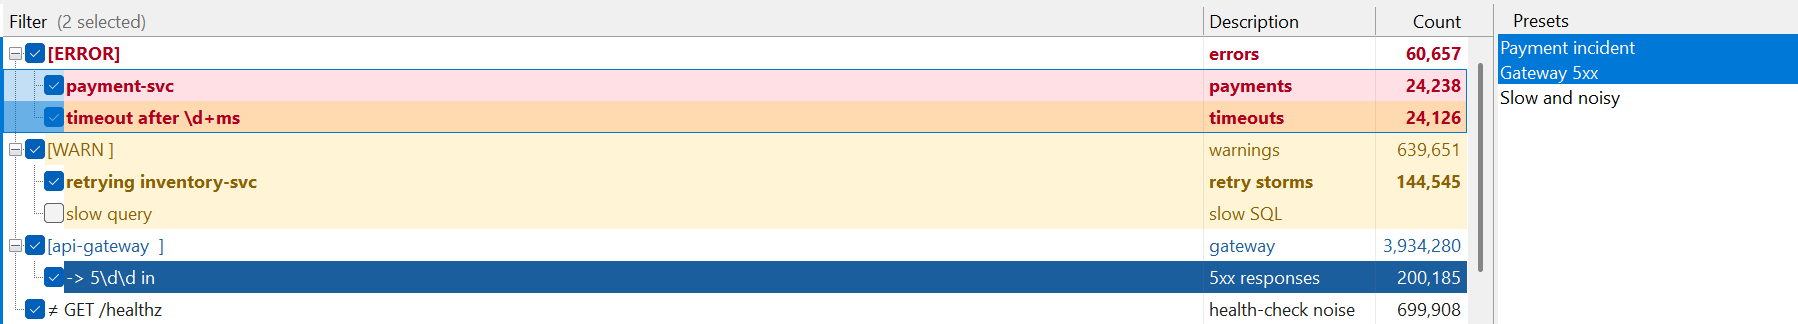
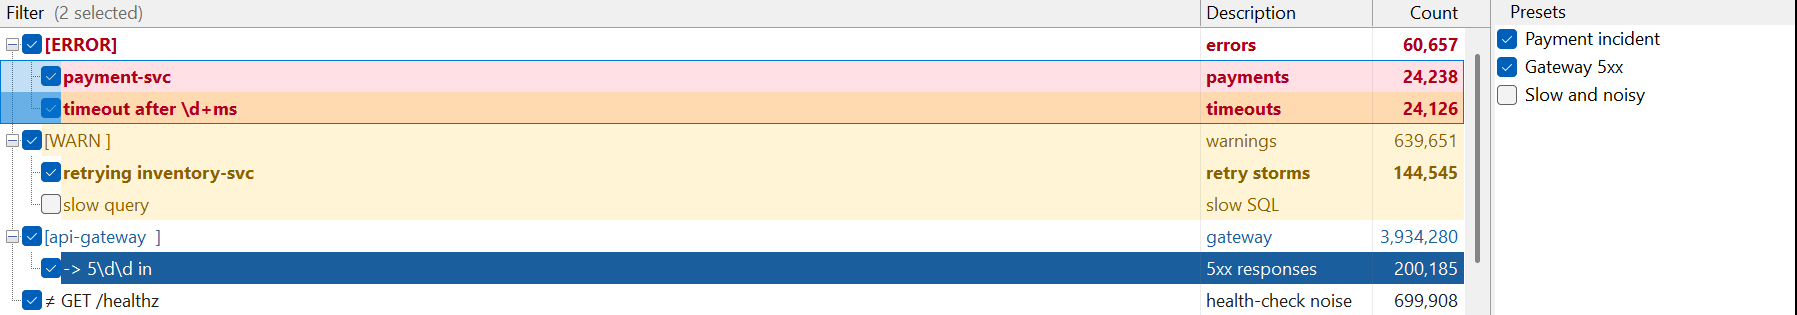
Refresh the README and its screenshots
The hero and filter-list shots still showed the old presets pane - a plain list with a blue selection - which is a CheckedListBox with ticks now, and the filter editor predated the underline style. All three re-shot from the real application. Presets get a section and a picture of their own, since 'the tick says what is in effect, the highlight says what the commands act on' is the whole point of that pane and no picture said it. Columns get the Ctrl+Shift+C shortcut they were missing. Two keyboard-reference errors fixed: searching the filter list is Ctrl+E, not Ctrl+F, and Ctrl+Shift+C was absent. Prose trimmed throughout - every major feature now gets a sentence or two and an image.

Changed region(s): [[0.0, 0.0, 1.0, 1.0], [0.6544, 0.5143, 0.7479, 0.6]]

diff --git a/README.md b/README.md
@@ -30,17 +30,15 @@ match and dims — or hides — everything else.
 
 ![The filter list](docs/images/filter-list.png)
 
-A filter is a substring, a .NET regular expression, or *marked by marker N*, with a colour, a
-description and an optional case-sensitivity flag. Filters are **includes** (show these lines) or
-**excludes** (but not these).
+A filter is a substring, a .NET regular expression, or *marked by marker N*, dressed with colours, bold,
+italic and underline, a description and an optional case-sensitivity flag. Filters are **includes** (show
+these lines) or **excludes** (but not these), and every row carries a **live count** that climbs while
+the file is still being scanned.
 
-- A filter matches a line only if its own pattern **and every ancestor's** match — whether or not those
-  ancestors are switched on. *Parent off, children on* therefore scopes a whole branch without
-  flooding the view with it.
-- A line is shown when an enabled include matches it and no enabled exclude does. Its colour comes from
-  the deepest match, and any property you leave unset is inherited from the nearest ancestor that sets
-  one.
-- Every row carries a **live count** that climbs while the file is still being scanned.
+Nesting is the point: a filter matches a line only if its own pattern **and every ancestor's** match,
+whether or not those ancestors are switched on — so *parent off, children on* scopes a whole branch
+without flooding the view with it. A line is shown when an enabled include matches it and no enabled
+exclude does; its colour comes from the deepest match, and anything left unset is inherited.
 
 ![The filter editor](docs/images/filter-edit.png)
 
@@ -49,8 +47,12 @@ and drag a group as one, with undo and redo a hundred steps deep. `Ctrl+E` searc
 without hiding or reordering it, and `F4` walks the matches of one filter without changing what's on
 screen.
 
-**Presets** name a combination of filters — *the payment incident*, *the slow queries* — and switch it on
-with a tick. Tick two and you get both.
+### Presets
+
+![Presets](docs/images/presets.png)
+
+A preset names a combination of filters — *the payment incident*, *the slow queries*. The tick says
+which are in effect, the highlight says which one the commands act on, and ticking two gives you both.
 
 ### Dim or hide
 
@@ -65,41 +67,39 @@ are always the file's own, and the line you were on keeps its place through the 
 
 ![The find bar, with every occurrence marked, beside the minimap](docs/images/find.png)
 
-**Find** is a bar above the log rather than a dialog over it, so the search and its results are on
-screen at once. Literal or regex, forwards or backwards, and every occurrence in view is marked as you
-type. It counts as it sweeps — `Match 12 of 348` — keeping what you can see apart from what the filters
-are hiding, and in filtered mode it only ever lands on a line you can actually see.
+**Find** is a bar above the log rather than a dialog over it, so the search and its results are on screen
+at once. Literal or regex, every occurrence in view marked as you type, and a count that fills in as it
+sweeps — `Match 12 of 348` — keeping what you can see apart from what the filters are hiding.
 
 **The minimap** stands in for the scrollbar: the log zoomed out to a pixel a line, in the colours the
-filters gave it, with empty stretches compressed so that a rare match is still worth a pixel. Drag it
-to scroll, click to jump; your markers and search hits ride alongside. `Ctrl+M` brings back a plain
+filters gave it, with empty stretches compressed so that a rare match is still worth a pixel. Drag it to
+scroll, click to jump; your markers and search hits ride alongside. `Ctrl+M` brings back a plain
 scrollbar.
 
 **Markers** are eight colours you apply by hand — `Ctrl+1`…`Ctrl+8` to set, `1`…`8` to walk them. They
 are a filter type too, so lines you picked out yourself can be treated as a category.
 
-**Hover a line** and Cascade names the filters that matched it, including the ones you had switched
-off — usually the one you were about to go looking for.
-
-Drag inside a line to select part of it; `Ctrl+N` turns the selection into a filter, which is the
-quickest way to chase a request id you just spotted. `Alt+Z` wraps long lines.
+**Hover a line** and Cascade names the filters that matched it, including the ones you had switched off
+— usually the one you were about to go looking for. Drag inside a line to select part of it; `Ctrl+N`
+turns that into a filter, which is the quickest way to chase a request id you just spotted. `Alt+Z`
+wraps long lines.
 
 ### Columns
 
 ![Columns](docs/images/columns.png)
 
-Split each line for display, on a delimiter or with a bracket template that names the fields:
+`Ctrl+Shift+C` splits each line for display, on a delimiter or with a bracket template that names the
+fields — and **View > Split Into Columns** reads those fields off the current line for you:
 
 ```
 [timestamp] [[service]] [[level]] [[request]] [message]
 ```
 
-**View > Split Into Columns** reads the fields off the current line for you. Everything else happens on
-the header itself: drag an edge to resize (snapping to whole characters in a fixed-pitch font),
-double-click an edge to fit a column to its content, carry a header sideways to reorder, double-click a
-name to rename it, and right-click for the tick list that shows and hides columns. Anything left to size
-itself shares out the width of the window, so no space goes to waste. Filtering always runs on the whole
-raw line, so turning columns on can never change what you see.
+Everything else happens on the header: drag an edge to resize (snapping to whole characters in a
+fixed-pitch font), double-click an edge to fit a column to its content, carry a header sideways to
+reorder, double-click a name to rename it, right-click for the tick list that shows and hides columns.
+Anything left to size itself shares out the width of the window. Filtering always runs on the whole raw
+line, so turning columns on can never change what you see.
 
 ---
 
@@ -152,7 +152,7 @@ registry keys, and updates itself.
 | `Shift+↑ ↓` / `Ctrl+↑ ↓` / `Ctrl+Space` / `Ctrl+A` | Extend, move through, add to, or take the whole selection |
 | `Alt+↑ ↓ ← →` | Move, nest and un-nest |
 | `F4` / `Shift+F4` | Next / previous line matching the current filter |
-| `Ctrl+F`, then `Enter` / `Shift+Enter` / `F3` | Search the list and walk the matches |
+| `Ctrl+E`, then `Enter` / `Shift+Enter` / `F3` | Search the list and walk the matches |
 | Double-click a filter / the empty space below | Edit it / add a new one |
 
 **Global**
@@ -165,7 +165,7 @@ registry keys, and updates itself.
 | `Ctrl+G` / `Ctrl+H` | Go to line / show only filtered lines |
 | `Ctrl+N` | New filter from the selection or the current line |
 | `Ctrl+E` | Search the filter list |
-| `Ctrl+M` / `Alt+Z` | Minimap or plain scrollbar / word wrap |
+| `Ctrl+M` / `Alt+Z` / `Ctrl+Shift+C` | Minimap or plain scrollbar / word wrap / columns |
 | `Ctrl+Shift+P` / `Ctrl+Shift+L` | Show or hide the presets pane / the filter list |
 | `Ctrl+Shift+T` / `Ctrl+Shift+F` | Focus the log view / the filter list |
 | `Ctrl+Shift+↑ ↓ ← →` | Dock the filter list |
@@ -193,14 +193,11 @@ Or, as the first argument: `--help`, `--version`, `--selftest`, `--screens <dir>
 
 Everything you rely on is here — the filter list with its checkboxes and counts, includes and excludes,
 substring and regex matching, colours per filter, the eight markers, `Ctrl+H`, find, encodings, zoom, a
-dockable filter list, recent files and `.tat` import. Deliberately different:
-
-- **Filters nest**, and saving is `.cascade`, since the old format cannot express a hierarchy or
-  per-property style inheritance. Flat `.tat` sets import unchanged.
-- **No plug-ins**, no live tail, and no `/Config:`, `/Line:` or `/Clipboard`.
-- **Copy is plain text**, optionally with line numbers — there is no HTML/colour clipboard format.
-- **No `A`–`Z` filter cycling or `Space` for the next matching line** — `F4` on the selected filter and
-  the filter-list search do that job.
+dockable filter list, recent files and `.tat` import. Deliberately different: **filters nest**, so saving
+is `.cascade` (the old format cannot express a hierarchy or per-property style inheritance, but flat
+`.tat` sets import unchanged); copy is plain text, optionally with line numbers; and there are no
+plug-ins, no live tail, no `A`–`Z` filter cycling and no `/Config:`, `/Line:` or `/Clipboard` — `F4` and
+the filter-list search do the cycling job.
 
 ## Building
 
